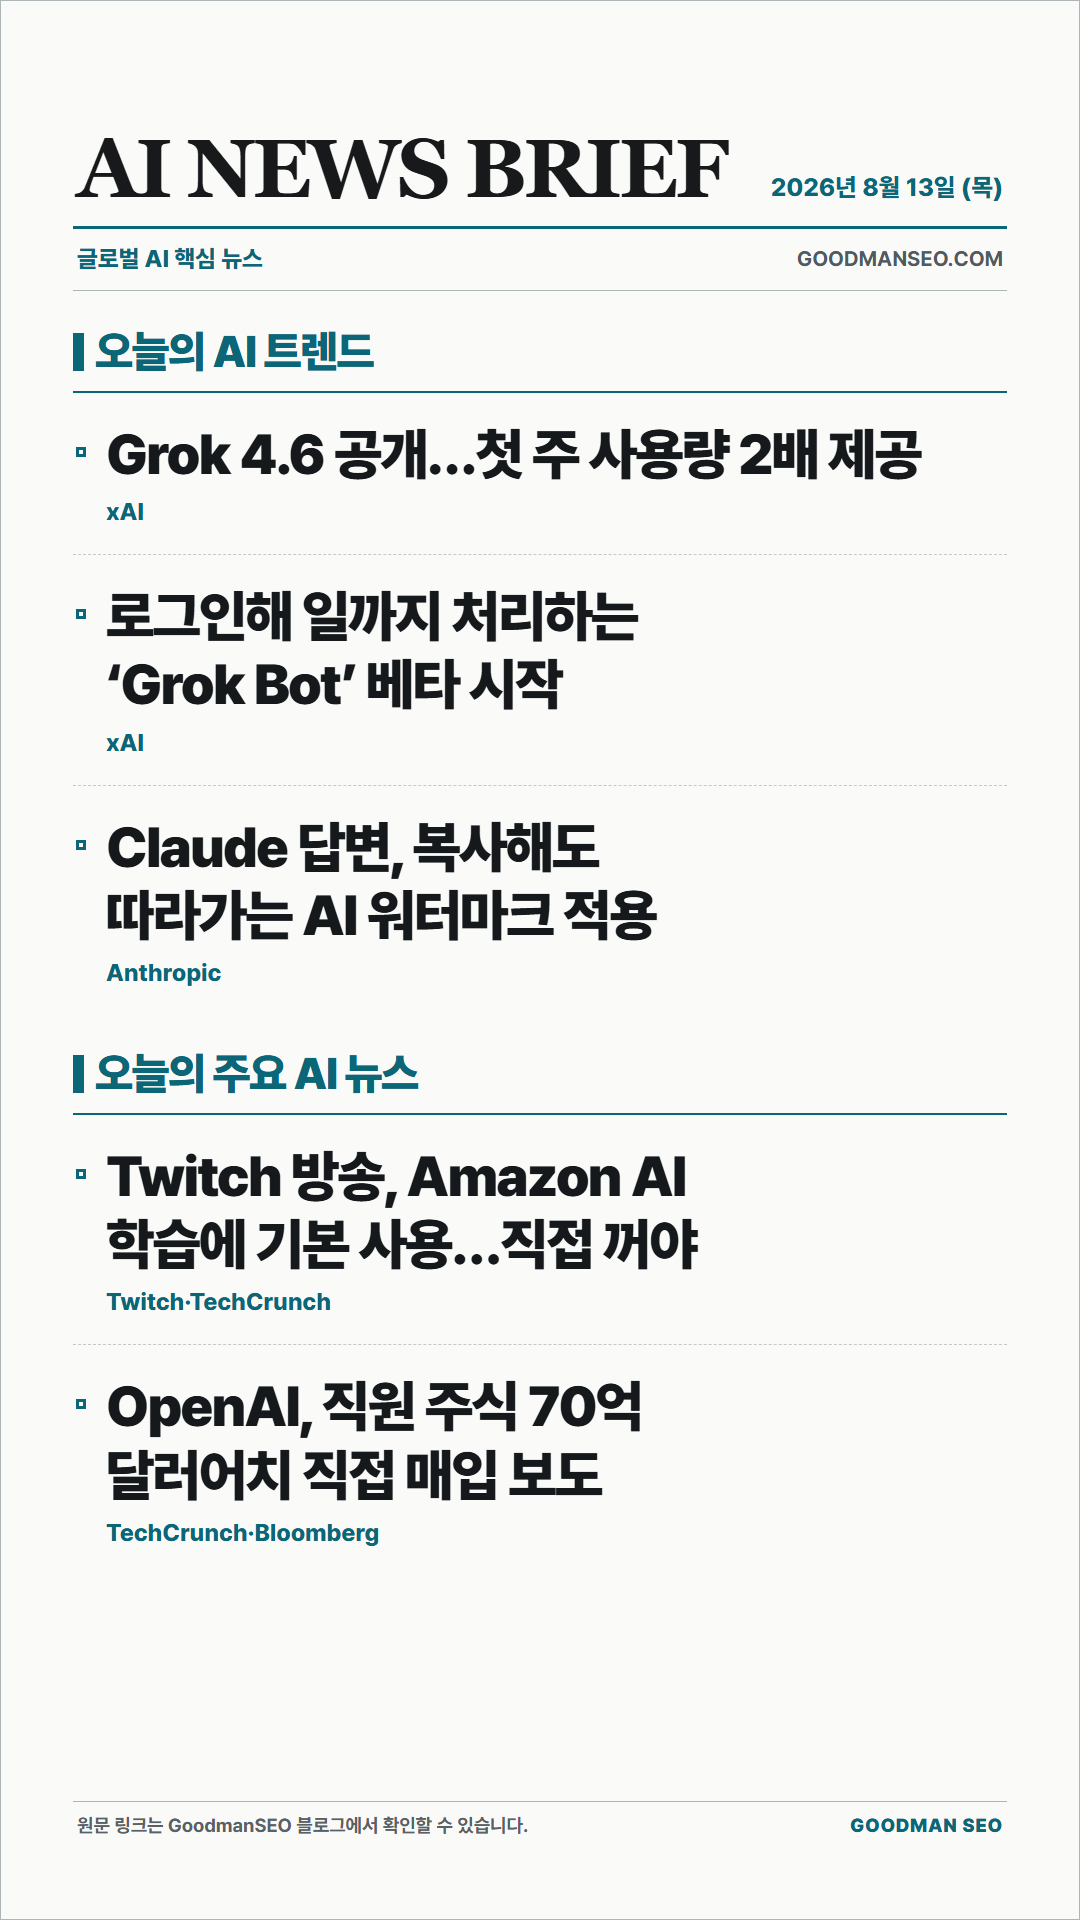
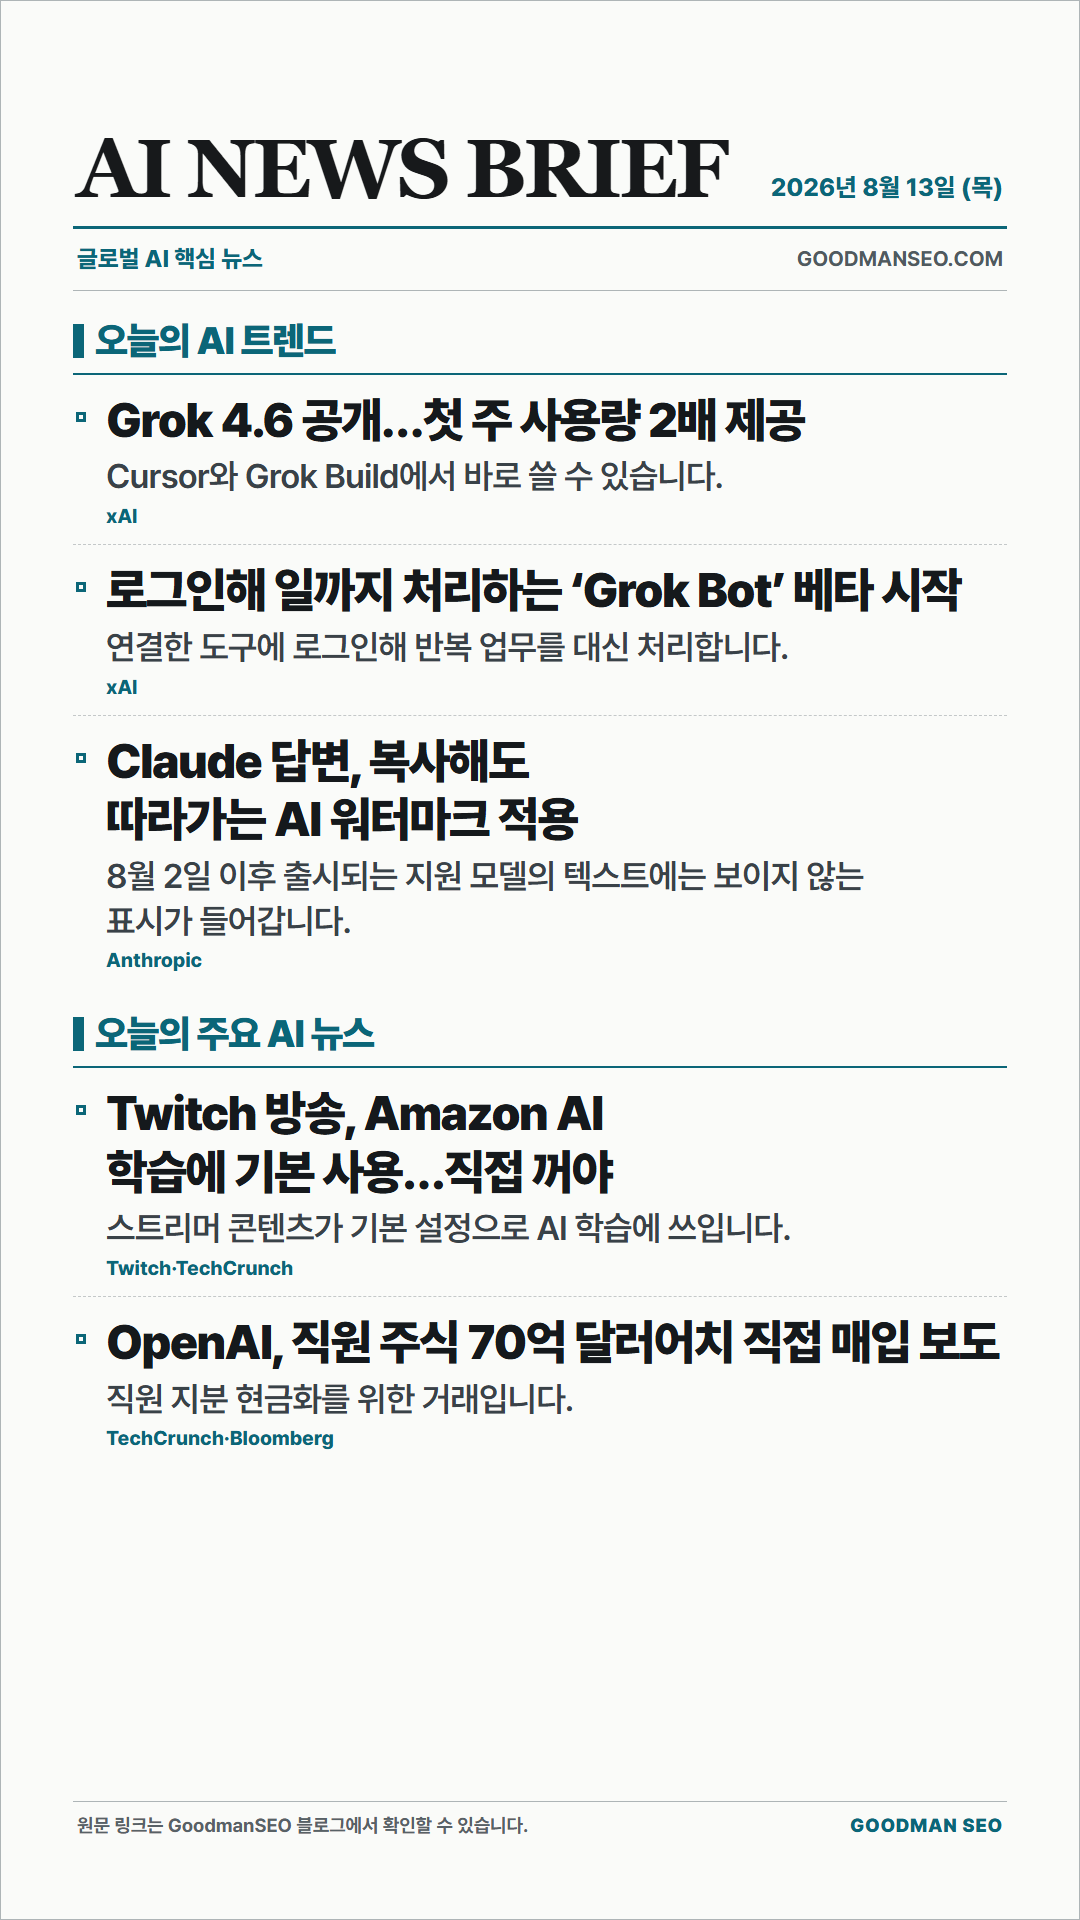
Balance mobile AI brief typography

Changed region(s): [[0.0611, 0.1562, 0.9167, 0.8125]]

diff --git a/docs/current-status.md b/docs/current-status.md
@@ -44,7 +44,7 @@ Treat those scores as report claims unless re-verified in the current thread.
 
 Additional work log:
 
-- 2026-08-13 daily AI key-news series: added `/blog/ai-keynews-2026-08-13/` with five current items in a trend-first mix, a matching `1080x1920` share image, original-source links, a download button, static metadata, and sitemap registration. “User-first” means reader-interest rather than direct user impact: each edition should lead with 3–4 high-interest topics visibly trending on X, such as major model launches, free or usage changes, surprising capabilities and demos, or active controversies, then add 2–3 broadly important AI company or industry stories. X engagement and repeated discussion are discovery signals, while all claims must still be confirmed through company sources or reputable reporting. Avoid stale practical tips, benchmark-only filler, and infrastructure detail unless the wider interest is clear. The deterministic image renderer is `scripts/generate-ai-keynews-image.mjs` and accepts 3–6 strong items. The share canvas uses a phone-first `9:16` layout for Shorts, Instagram, and X, showing only large headlines and source labels; full explanations remain on the blog page. X and KakaoTalk posting remain manual and outside the site workflow.
+- 2026-08-13 daily AI key-news series: added `/blog/ai-keynews-2026-08-13/` with five current items in a trend-first mix, a matching `1080x1920` share image, original-source links, a download button, static metadata, and sitemap registration. “User-first” means reader-interest rather than direct user impact: each edition should lead with 3–4 high-interest topics visibly trending on X, such as major model launches, free or usage changes, surprising capabilities and demos, or active controversies, then add 2–3 broadly important AI company or industry stories. X engagement and repeated discussion are discovery signals, while all claims must still be confirmed through company sources or reputable reporting. Avoid stale practical tips, benchmark-only filler, and infrastructure detail unless the wider interest is clear. The deterministic image renderer is `scripts/generate-ai-keynews-image.mjs` and accepts 3–6 strong items. The share canvas uses a phone-first `9:16` layout for Shorts, Instagram, and X, with headlines at roughly twice the original scale plus each item’s first short summary sentence and source; remaining explanation stays on the blog page. X and KakaoTalk posting remain manual and outside the site workflow.
 - 2026-07-30 customer-temperature blog post: added `/blog/customer-temperature-before-sales-review/`, then refined it into structured summary cards, section headings, action rows, a review-request callout, and three generated blog images. The full article was also rewritten in a friendlier, contemporary Korean voice while preserving the original sales experience and Cold/Warm/Hot framework. Static build and targeted ESLint checks passed.
 - 2026-07-13 English homepage rollout: added `/en` and `/en/contact` while preserving the existing homepage structure and navy/off-white design system. Shared navigation, footer, enquiry form, language switcher, document language, canonical, `hreflang`, static route generation, and sitemap entries now support Korean and English. Targeted ESLint, Impeccable detect, production build, and Playwright desktop/mobile checks passed.
 - `docs/homepage-redesign-2026-07-04.md`: records the July 4 homepage redesign work log, including reference-image direction, hero woman image, dark navy section system, compact typography, footer/nav/logo changes, removed score CTA section, and validation notes.

diff --git a/CLAUDE.md b/CLAUDE.md
@@ -86,7 +86,7 @@ GoodmanSEO also publishes one global AI key-news brief per day. Preserve these r
 - retain a clickable original-source link for every item in the blog post
 - derive the image from the same post data so titles, dates, figures, and source names match
 - use the white newsprint design: large serif `AI NEWS BRIEF`, teal rules and labels, and a simple single-column news flow
-- keep the `1080x1920` share image phone-first for Shorts, Instagram, and X: show only large news headlines and source labels; the longer `summary` belongs on the blog page
+- keep the `1080x1920` share image phone-first for Shorts, Instagram, and X: use mid-sized headlines at roughly twice the original scale, the first short summary sentence, and a source label; the remaining explanation belongs on the blog page
 - do not add market indexes, ads, weather, tool rankings, or decorative icon-card grids
 - publish to the GoodmanSEO site only; KakaoTalk and X sharing remain manual user actions
 

diff --git a/wiki/log.md b/wiki/log.md
@@ -1,6 +1,6 @@
 # Wiki Log
 
-- 2026-08-13: Rebuilt the daily AI share image as a phone-first `1080x1920` asset for Shorts, Instagram, and X. The image now shows only substantially larger headlines and source labels, while full explanations remain in the blog post.
+- 2026-08-13: Tuned the phone-first `1080x1920` AI share image back to a moderate scale after the headline-only version proved too large. It now uses headlines at roughly twice the original size, each item’s first summary sentence, and a source label; the remaining explanation stays in the blog post.
 
 - 2026-08-13: Clarified the daily AI key-news mix as trend-first rather than direct-impact-first: lead with 3–4 fresh topics that readers are actively interested in on X, then add 2–3 major AI news items. Engagement and repeated discussion are discovery signals, claims are verified separately, and stale practical tips or technical filler are excluded. External X and KakaoTalk posting remain manual.
 

diff --git a/wiki/concepts/content-system.md b/wiki/concepts/content-system.md
@@ -38,7 +38,7 @@ Workflow:
 Design rule:
 
 - White newsprint surface, large serif `AI NEWS BRIEF` masthead, teal rules and labels, and a simple single-column grouped list.
-- Use a phone-first `1080x1920` canvas for Shorts, Instagram, and X: show large headlines and source labels only, with full explanations kept in the article.
+- Use a phone-first `1080x1920` canvas for Shorts, Instagram, and X: show mid-sized headlines at roughly twice the original scale, the first short summary sentence, and source labels; keep the remaining explanation in the article.
 - No market index, advertising, weather, popularity ranking, or decorative icon-card grid.
 - X and KakaoTalk distribution remain manual; automation ends after GoodmanSEO publication and public verification.
 
